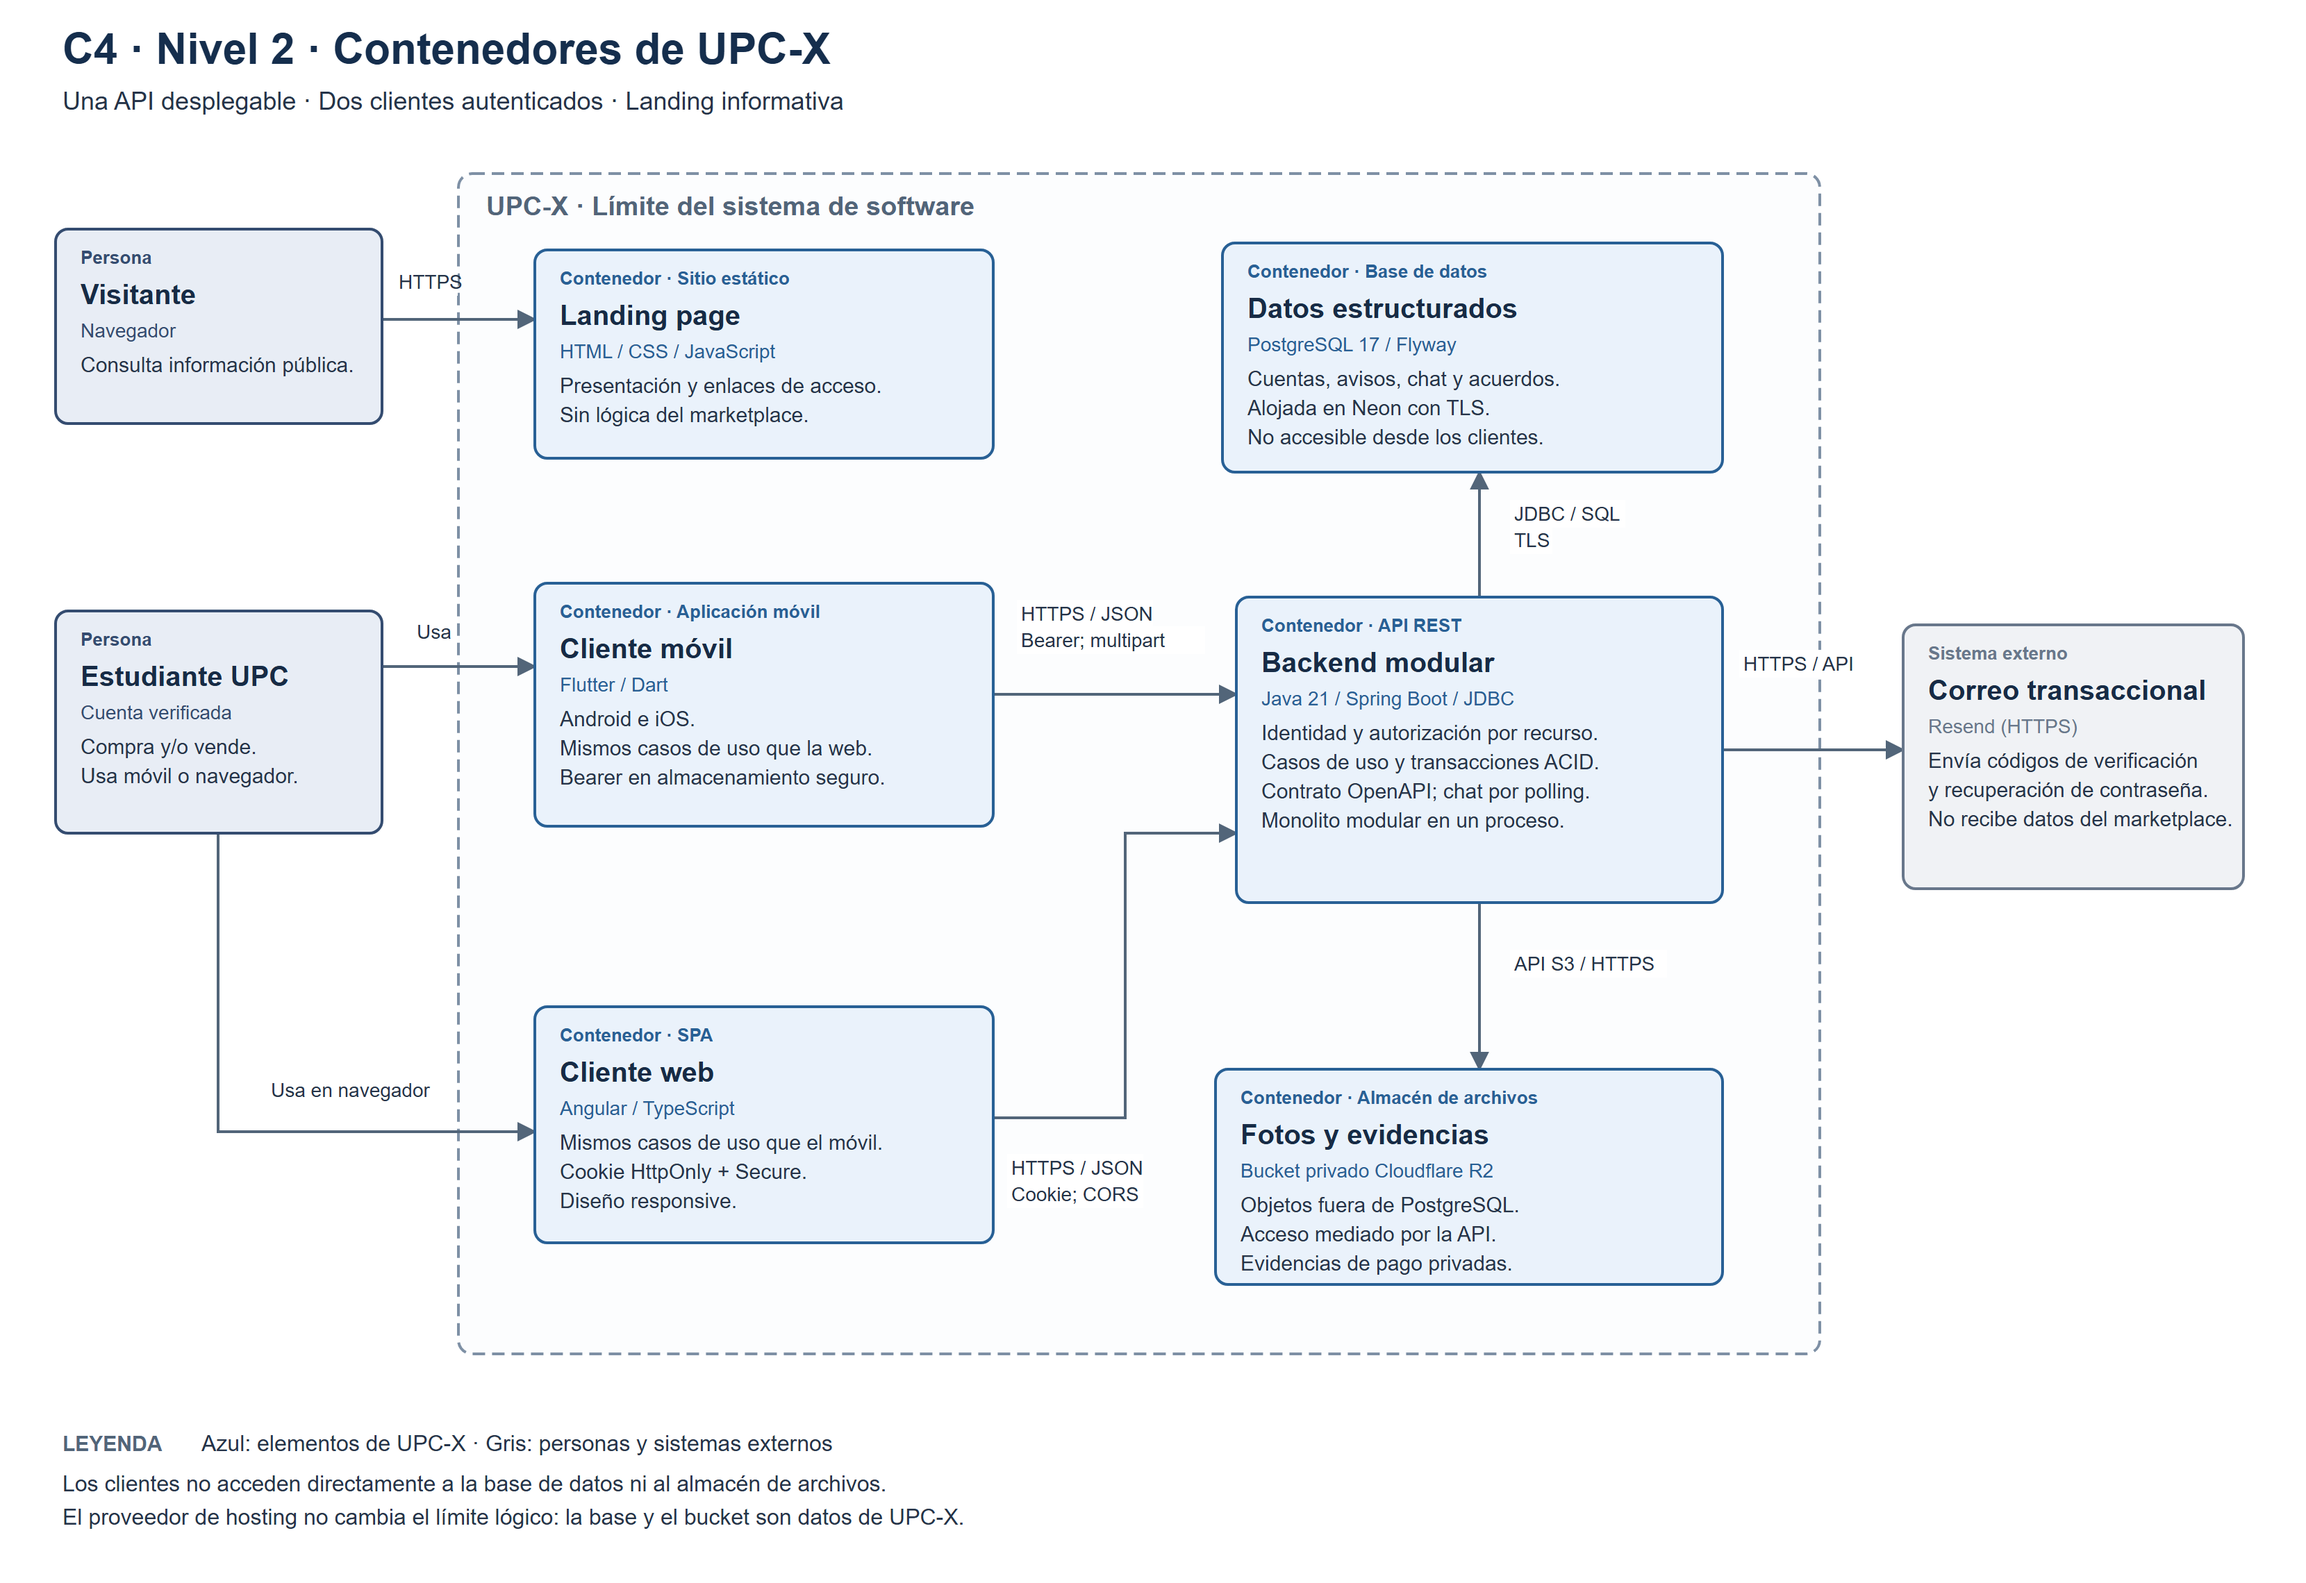
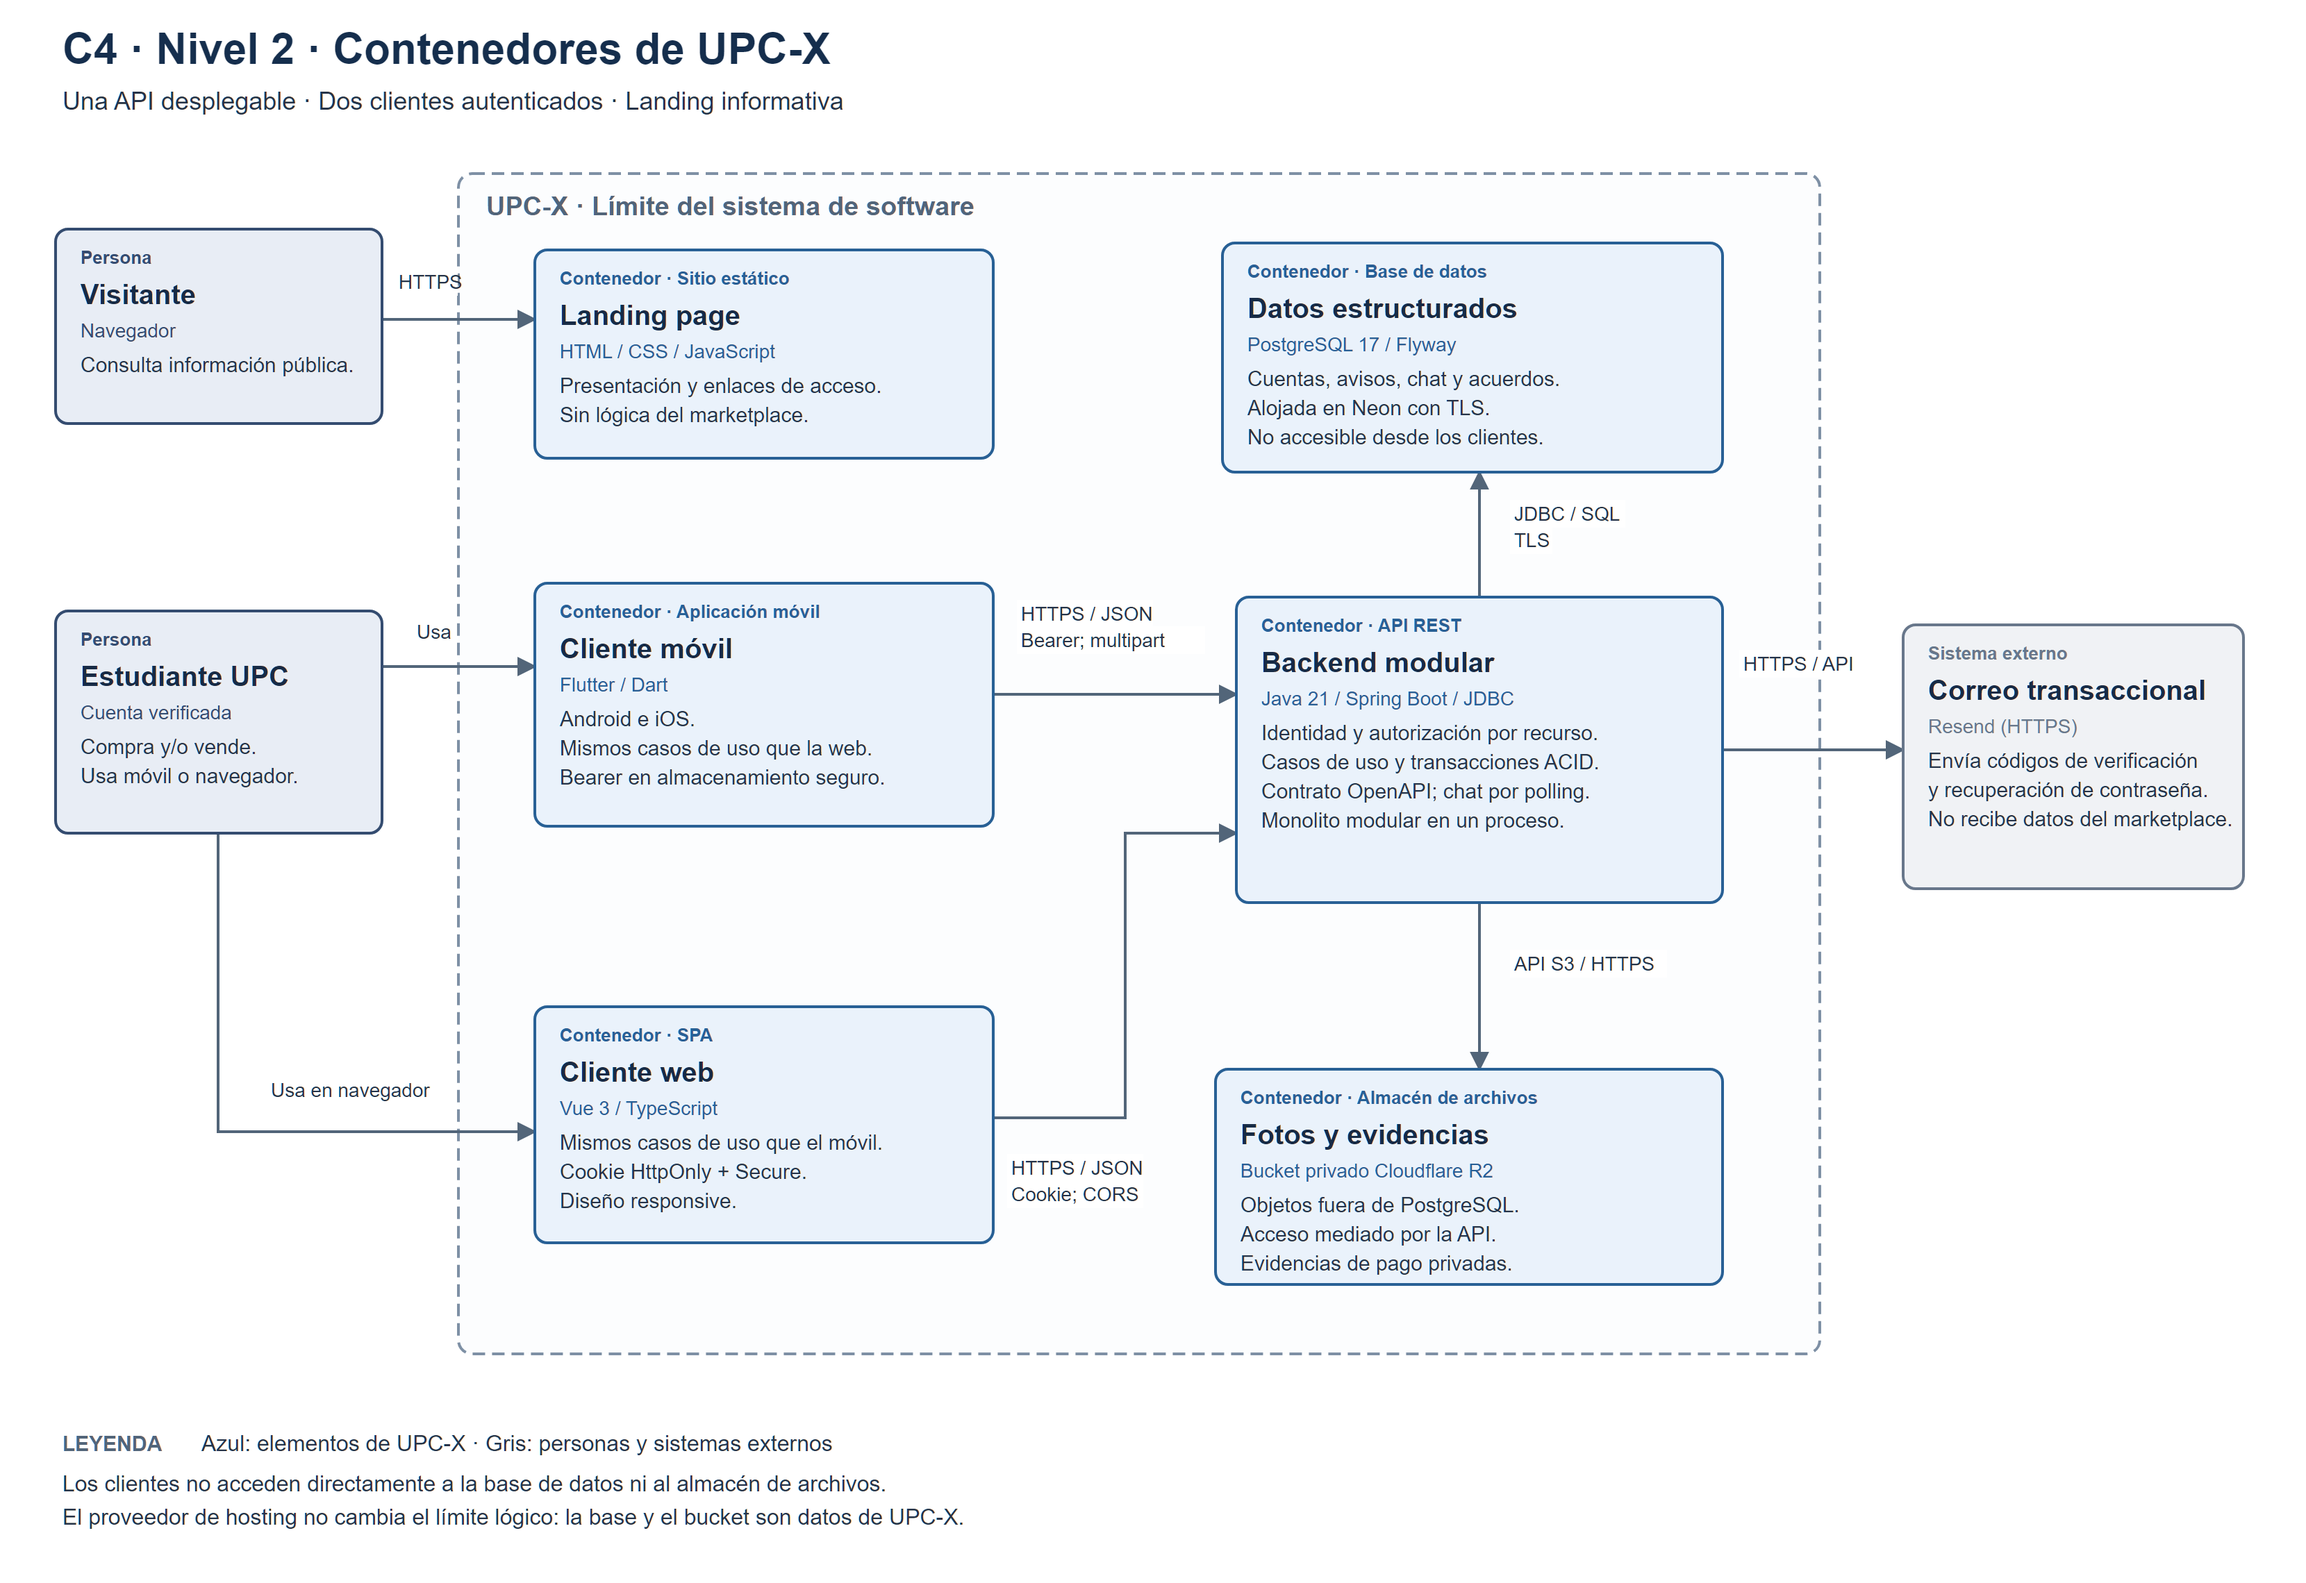
docs(chapter4): actualizar el cliente web a Vue en los diagramas C4 de contenedores y componentes y en el índice

diff --git a/README.md b/README.md
@@ -447,7 +447,7 @@ El siguiente gráfico resume los commits del repositorio del informe desde el ci
       - [HTML](#html)
       - [CSS](#css)
       - [JavaScript (Landing)](#javascript-landing)
-      - [TypeScript (Angular Web App)](#typescript-angular-web-app)
+      - [TypeScript y Vue (Web App)](#typescript-y-vue-web-app)
       - [Dart (Flutter)](#dart-flutter)
       - [Java (Spring Boot)](#java-spring-boot)
       - [Gherkin](#gherkin)
@@ -460,6 +460,7 @@ El siguiente gráfico resume los commits del repositorio del informe desde el ci
     - [5.2.1. Sprint Backlogs](#521-sprint-backlogs)
       - [Sprint 1](#sprint-1)
       - [Sprint Planning Background](#sprint-planning-background)
+      - [Sprint Backlog 1](#sprint-backlog-1)
       - [Aspect Leaders and Collaboration (LACX)](#aspect-leaders-and-collaboration-lacx)
     - [5.2.2. Implemented Landing Page Evidence](#522-implemented-landing-page-evidence)
     - [5.2.3. Implemented Frontend-Web Application Evidence](#523-implemented-frontend-web-application-evidence)
@@ -467,6 +468,7 @@ El siguiente gráfico resume los commits del repositorio del informe desde el ci
     - [5.2.5. Implemented Native-Mobile Application Evidence](#525-implemented-native-mobile-application-evidence)
     - [5.2.6. Implemented RESTful API and/or Serverless Backend Evidence](#526-implemented-restful-api-andor-serverless-backend-evidence)
     - [5.2.7. RESTful API documentation](#527-restful-api-documentation)
+      - [Ejemplos de solicitud y respuesta](#ejemplos-de-solicitud-y-respuesta)
     - [5.2.8. Team Collaboration Insights](#528-team-collaboration-insights)
   - [5.3. Video About-the-Product](#53-video-about-the-product)
 - [Conclusiones](#conclusiones)
@@ -477,6 +479,9 @@ El siguiente gráfico resume los commits del repositorio del informe desde el ci
 - [Video App Validation](#video-app-validation)
 - [Bibliografía](#bibliografía)
 - [Anexos](#anexos)
+  - [Anexo A. Productos desplegados](#anexo-a-productos-desplegados)
+  - [Anexo B. Repositorios](#anexo-b-repositorios)
+  - [Anexo C. Diseño y gestión del producto](#anexo-c-diseño-y-gestión-del-producto)
 
 <div class="page"></div>
 
@@ -553,7 +558,7 @@ En el siguiente cuadro se describe las acciones realizadas y enunciados de concl
         <strong>Gilbert Alonso Huarcaya Matias</strong><br>
         <b>AV1:</b> Durante el AV1 participé en la redacción colaborativa del Capítulo I, revisando que la descripción de RichStudent y UPC-X fuera coherente con el dominio del marketplace universitario. Apoyé la elaboración de los segmentos objetivo, verificando que los aspectos demográficos, geográficos y psicográficos reflejaran a la comunidad UPC real (sedes Monterrico, San Miguel, San Isidro y Villa) y no a un mercado genérico. Revisé las Lean UX Assumptions y User Assumptions para asegurar que cada feature propuesta (login verificado, chat, voucher Yape, rating, puntos de encuentro) quedara enunciada como un supuesto sujeto a validación empírica, con su criterio de éxito medible, y no como una necesidad dada por confirmada. Esta distinción es una exigencia metodológica del Lean UX Process: sostenerla evita que el equipo construya sobre afirmaciones no verificadas. Incorporé el marco ético profesional de la ACM y la IEEE Computer Society en esta sección, derivando de él tres decisiones concretas de diseño (verificación por correo institucional en lugar de solicitar DNI por chat, prioridad de la seguridad del estudiante sobre la métrica de adopción, y formulación de hipótesis falsables en lugar de promesas de resultado). Colaboré en el Registro de Versiones, desglosándolo por autor, y en la sección Project Report Collaboration Insights.
         <br><br>
-        <b>TB1:</b> En el TB1 revisé el informe sección por sección contra la rúbrica y el enunciado, y me encargué de que el Capítulo V diga lo mismo que está desplegado: el stack de la web, las direcciones de la API y de la aplicación, los 33 endpoints con sus ejemplos y las pruebas que pasan. El informe describía una web en Angular y un despliegue que figuraba como pendiente, así que lo corregí para que coincida con lo que construimos. También armé el Sprint Backlog con las tareas de cada historia y el nombre de quien las hizo, así se ve qué hizo cada uno.
+        <b>TB1:</b> En el TB1 revisé el informe sección por sección contra la rúbrica y el enunciado, y me encargué de que el Capítulo V diga lo mismo que está desplegado: el stack de la web, las direcciones de la API y de la aplicación, los 33 endpoints con sus ejemplos y las pruebas que pasan. Que el informe describa lo mismo que el profesor puede abrir en el navegador me parece parte de entregar un trabajo honesto. También armé el Sprint Backlog con las tareas de cada historia y el nombre de quien las hizo, así se ve qué hizo cada uno.
       </td>
     </tr>
     <tr>
@@ -4789,7 +4794,7 @@ El visitante consulta la landing y el estudiante verificado compra y vende con u
 
 ### 4.8.2. Software Architecture Container Diagrams
 
-La landing es un sitio estático informativo. La aplicación móvil en Flutter y la aplicación web en Angular consumen una API REST documentada con OpenAPI. El backend en Java 21 y Spring Boot concentra la autorización y las transacciones; PostgreSQL 17, versionado con Flyway, guarda los datos estructurados, mientras que las fotos y evidencias se almacenan fuera de la base de datos, en un bucket privado. Solo la API accede a los datos y a los proveedores externos.
+La landing es un sitio estático informativo. La aplicación móvil en Flutter y la aplicación web en Vue consumen una API REST documentada con OpenAPI. El backend en Java 21 y Spring Boot concentra la autorización y las transacciones; PostgreSQL 17, versionado con Flyway, guarda los datos estructurados, mientras que las fotos y evidencias se almacenan fuera de la base de datos, en un bucket privado. Solo la API accede a los datos y a los proveedores externos.
 
 La aplicación móvil se autentica con un token bearer guardado en almacenamiento seguro y la web, con una cookie HttpOnly y Secure. Para mantener la política `SameSite=Lax`, la aplicación web y la API se publican bajo el mismo sitio HTTPS. El despliegue previsto aloja la base de datos en Neon, los archivos en Cloudflare R2 y el envío de correo en Resend.
 
